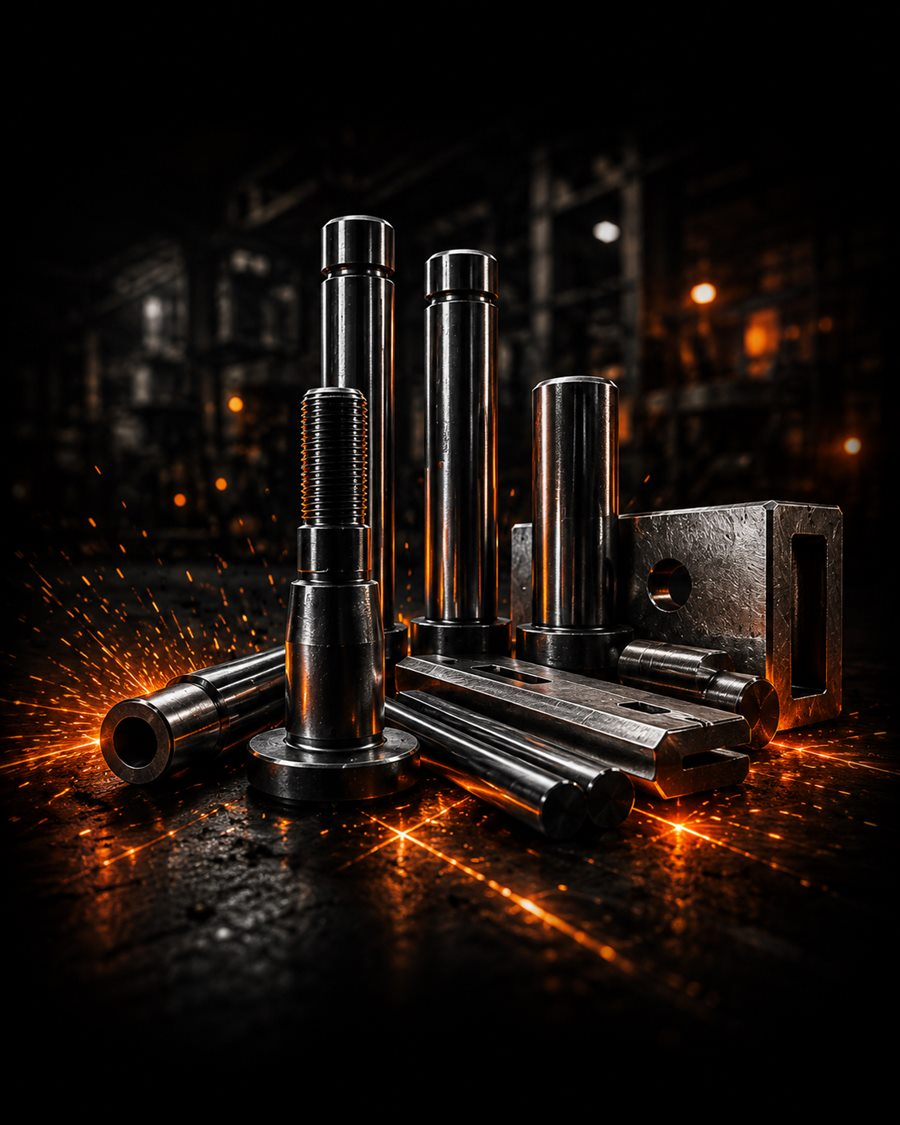
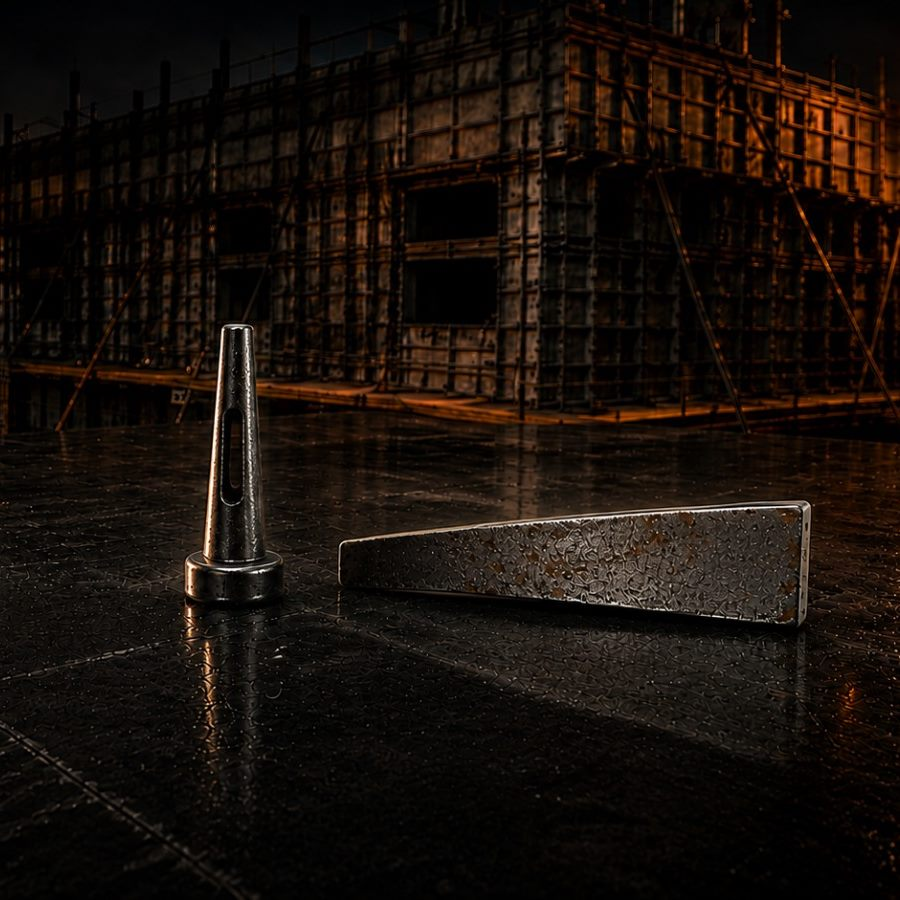
Hero novo e icone do WhatsApp de verdade
Icone: o jogo de icones do site e em traco e alguem tinha desenhado o
WhatsApp como bolha em traco com o fone chapado dentro. Ampliado, o fone
virava um borrao. Trocado pelo glifo oficial cheio nos 10 lugares que sao
link ou botao de WhatsApp (classe .ico-wa). O do passo 01 ficou bolha
genérica em traco, porque ali e ilustracao e nao link.

Hero: a foto nova tem as pecas no centro do quadro, nao na direita. Cortei
130px de piso vazio na direita e estiquei os 100px da esquerda, que sao
preto puro, pra 800px. O par cai no terco direito e a headline fica sobre
preto chapado.

De quebra, dois bugs que apareceram na conferencia:
- aspect-ratio com max-height na foto do hero devolvia o limite pra
  largura: a foto era um quadrado de 347px encostado na esquerda em
  qualquer largura de tela. Agora a altura e explicita e a largura sangra
- o menu do header espremia os seis itens a 1024px e os nomes das secoes
  encostavam um no outro. Menu mais apertado na faixa ate 1180
- o hero passa a empilhar a partir de 1000px: entre 861 e 1000 o pino caia
  por cima do subtitulo

Zero estouro horizontal de 482 a 1886.

diff --git a/index.html b/index.html
@@ -52,7 +52,7 @@
         <span>@ultraleveformas</span>
       </a>
       <a class="btn btn--ghost hdr__cta" href="https://wa.me/5511932408652?text=Ol%C3%A1!%20Vim%20pelo%20site%20e%20gostaria%20de%20um%20or%C3%A7amento." target="_blank" rel="noopener">
-        <svg viewBox="0 0 24 24" aria-hidden="true"><path d="M20.5 11.6a8.5 8.5 0 0 1-12.6 7.5L3.5 20.5l1.4-4.3A8.5 8.5 0 1 1 20.5 11.6Z"/><path d="M9 9.2c.3-.7.6-.7.9-.7h.6c.2 0 .5 0 .7.5l.8 1.9c.1.3 0 .5-.1.7l-.4.5c-.2.2-.3.4-.1.7a6 6 0 0 0 2.8 2.4c.3.1.5.1.7-.1l.6-.7c.2-.2.4-.2.6-.1l1.8.9c.3.1.4.3.4.5a2 2 0 0 1-1.4 1.8c-.5.1-1.2.2-3.5-.8a9.4 9.4 0 0 1-4.2-4.1c-.9-1.7-.6-2.7-.2-3.4Z" fill="currentColor" stroke="none"/></svg>
+        <svg class="ico-wa" viewBox="0 0 24 24" aria-hidden="true"><path d="M17.472 14.382c-.297-.149-1.758-.867-2.03-.967-.273-.099-.471-.148-.67.15-.197.297-.767.966-.94 1.164-.173.199-.347.223-.644.075-.297-.15-1.255-.463-2.39-1.475-.883-.788-1.48-1.761-1.653-2.059-.173-.297-.018-.458.13-.606.134-.133.347-.347.52-.52.174-.174.232-.298.347-.497.115-.199.058-.372-.024-.52-.082-.149-.67-1.612-.917-2.207-.244-.579-.487-.5-.669-.51-.173-.008-.371-.01-.57-.01-.198 0-.52.074-.792.372-.272.297-1.04 1.016-1.04 2.479 0 1.462 1.065 2.875 1.213 3.074.149.198 2.096 3.2 5.077 4.487.709.306 1.262.489 1.694.625.712.227 1.36.195 1.872.118.572-.085 1.758-.719 2.006-1.413.248-.694.248-1.289.173-1.413-.074-.124-.272-.198-.57-.347m-5.421 7.403h-.004a9.87 9.87 0 0 1-5.031-1.378l-.361-.214-3.741.982.998-3.648-.235-.374a9.86 9.86 0 0 1-1.51-5.26c.001-5.45 4.436-9.884 9.888-9.884 2.64 0 5.122 1.03 6.988 2.898a9.825 9.825 0 0 1 2.893 6.994c-.003 5.45-4.437 9.884-9.885 9.884m8.413-18.297A11.815 11.815 0 0 0 12.05 0C5.495 0 .16 5.335.157 11.892c0 2.096.547 4.142 1.588 5.945L.057 24l6.305-1.654a11.882 11.882 0 0 0 5.683 1.448h.005c6.554 0 11.89-5.335 11.893-11.893a11.821 11.821 0 0 0-3.48-8.413Z"/></svg>
         <span>(11) 93240-8652</span>
       </a>
       <button class="burger" id="burger" aria-label="Abrir menu" aria-expanded="false" aria-controls="nav">
@@ -94,7 +94,7 @@
 
     <div class="hero__cta stag" style="--d:210ms">
       <a class="btn btn--fire" href="https://wa.me/5511932408652?text=Ol%C3%A1!%20Vim%20pelo%20site%20e%20gostaria%20de%20falar%20com%20um%20representante." target="_blank" rel="noopener">
-        <svg viewBox="0 0 24 24" aria-hidden="true"><path d="M20.5 11.6a8.5 8.5 0 0 1-12.6 7.5L3.5 20.5l1.4-4.3A8.5 8.5 0 1 1 20.5 11.6Z"/><path d="M9 9.2c.3-.7.6-.7.9-.7h.6c.2 0 .5 0 .7.5l.8 1.9c.1.3 0 .5-.1.7l-.4.5c-.2.2-.3.4-.1.7a6 6 0 0 0 2.8 2.4c.3.1.5.1.7-.1l.6-.7c.2-.2.4-.2.6-.1l1.8.9c.3.1.4.3.4.5a2 2 0 0 1-1.4 1.8c-.5.1-1.2.2-3.5-.8a9.4 9.4 0 0 1-4.2-4.1c-.9-1.7-.6-2.7-.2-3.4Z" fill="currentColor" stroke="none"/></svg>
+        <svg class="ico-wa" viewBox="0 0 24 24" aria-hidden="true"><path d="M17.472 14.382c-.297-.149-1.758-.867-2.03-.967-.273-.099-.471-.148-.67.15-.197.297-.767.966-.94 1.164-.173.199-.347.223-.644.075-.297-.15-1.255-.463-2.39-1.475-.883-.788-1.48-1.761-1.653-2.059-.173-.297-.018-.458.13-.606.134-.133.347-.347.52-.52.174-.174.232-.298.347-.497.115-.199.058-.372-.024-.52-.082-.149-.67-1.612-.917-2.207-.244-.579-.487-.5-.669-.51-.173-.008-.371-.01-.57-.01-.198 0-.52.074-.792.372-.272.297-1.04 1.016-1.04 2.479 0 1.462 1.065 2.875 1.213 3.074.149.198 2.096 3.2 5.077 4.487.709.306 1.262.489 1.694.625.712.227 1.36.195 1.872.118.572-.085 1.758-.719 2.006-1.413.248-.694.248-1.289.173-1.413-.074-.124-.272-.198-.57-.347m-5.421 7.403h-.004a9.87 9.87 0 0 1-5.031-1.378l-.361-.214-3.741.982.998-3.648-.235-.374a9.86 9.86 0 0 1-1.51-5.26c.001-5.45 4.436-9.884 9.888-9.884 2.64 0 5.122 1.03 6.988 2.898a9.825 9.825 0 0 1 2.893 6.994c-.003 5.45-4.437 9.884-9.885 9.884m8.413-18.297A11.815 11.815 0 0 0 12.05 0C5.495 0 .16 5.335.157 11.892c0 2.096.547 4.142 1.588 5.945L.057 24l6.305-1.654a11.882 11.882 0 0 0 5.683 1.448h.005c6.554 0 11.89-5.335 11.893-11.893a11.821 11.821 0 0 0-3.48-8.413Z"/></svg>
         Fale conosco
       </a>
       <a class="btn btn--steel" href="#catalogo">
@@ -287,7 +287,7 @@
 
     <div class="pc__act reveal">
       <a class="btn btn--fire btn--lg" href="https://wa.me/5511932408652?text=Ol%C3%A1!%20Vim%20pelo%20site%20e%20gostaria%20de%20um%20or%C3%A7amento%20para%20*pinos%20e%20cunhas*." target="_blank" rel="noopener">
-        <svg viewBox="0 0 24 24" aria-hidden="true"><path d="M20.5 11.6a8.5 8.5 0 0 1-12.6 7.5L3.5 20.5l1.4-4.3A8.5 8.5 0 1 1 20.5 11.6Z"/><path d="M9 9.2c.3-.7.6-.7.9-.7h.6c.2 0 .5 0 .7.5l.8 1.9c.1.3 0 .5-.1.7l-.4.5c-.2.2-.3.4-.1.7a6 6 0 0 0 2.8 2.4c.3.1.5.1.7-.1l.6-.7c.2-.2.4-.2.6-.1l1.8.9c.3.1.4.3.4.5a2 2 0 0 1-1.4 1.8c-.5.1-1.2.2-3.5-.8a9.4 9.4 0 0 1-4.2-4.1c-.9-1.7-.6-2.7-.2-3.4Z" fill="currentColor" stroke="none"/></svg>
+        <svg class="ico-wa" viewBox="0 0 24 24" aria-hidden="true"><path d="M17.472 14.382c-.297-.149-1.758-.867-2.03-.967-.273-.099-.471-.148-.67.15-.197.297-.767.966-.94 1.164-.173.199-.347.223-.644.075-.297-.15-1.255-.463-2.39-1.475-.883-.788-1.48-1.761-1.653-2.059-.173-.297-.018-.458.13-.606.134-.133.347-.347.52-.52.174-.174.232-.298.347-.497.115-.199.058-.372-.024-.52-.082-.149-.67-1.612-.917-2.207-.244-.579-.487-.5-.669-.51-.173-.008-.371-.01-.57-.01-.198 0-.52.074-.792.372-.272.297-1.04 1.016-1.04 2.479 0 1.462 1.065 2.875 1.213 3.074.149.198 2.096 3.2 5.077 4.487.709.306 1.262.489 1.694.625.712.227 1.36.195 1.872.118.572-.085 1.758-.719 2.006-1.413.248-.694.248-1.289.173-1.413-.074-.124-.272-.198-.57-.347m-5.421 7.403h-.004a9.87 9.87 0 0 1-5.031-1.378l-.361-.214-3.741.982.998-3.648-.235-.374a9.86 9.86 0 0 1-1.51-5.26c.001-5.45 4.436-9.884 9.888-9.884 2.64 0 5.122 1.03 6.988 2.898a9.825 9.825 0 0 1 2.893 6.994c-.003 5.45-4.437 9.884-9.885 9.884m8.413-18.297A11.815 11.815 0 0 0 12.05 0C5.495 0 .16 5.335.157 11.892c0 2.096.547 4.142 1.588 5.945L.057 24l6.305-1.654a11.882 11.882 0 0 0 5.683 1.448h.005c6.554 0 11.89-5.335 11.893-11.893a11.821 11.821 0 0 0-3.48-8.413Z"/></svg>
         Quero orçamento de pinos e cunhas
       </a>
     </div>
@@ -379,7 +379,7 @@
         <p>Fabricação própria resolve medida especial fora de catálogo. Manda o desenho, a especificação ou uma foto da peça de referência.</p>
       </div>
       <a class="btn btn--fire" href="https://wa.me/5511932408652?text=Ol%C3%A1!%20Vim%20pelo%20site%20e%20preciso%20de%20uma%20pe%C3%A7a%20sob%20medida." target="_blank" rel="noopener">
-        <svg viewBox="0 0 24 24" aria-hidden="true"><path d="M20.5 11.6a8.5 8.5 0 0 1-12.6 7.5L3.5 20.5l1.4-4.3A8.5 8.5 0 1 1 20.5 11.6Z"/><path d="M9 9.2c.3-.7.6-.7.9-.7h.6c.2 0 .5 0 .7.5l.8 1.9c.1.3 0 .5-.1.7l-.4.5c-.2.2-.3.4-.1.7a6 6 0 0 0 2.8 2.4c.3.1.5.1.7-.1l.6-.7c.2-.2.4-.2.6-.1l1.8.9c.3.1.4.3.4.5a2 2 0 0 1-1.4 1.8c-.5.1-1.2.2-3.5-.8a9.4 9.4 0 0 1-4.2-4.1c-.9-1.7-.6-2.7-.2-3.4Z" fill="currentColor" stroke="none"/></svg>
+        <svg class="ico-wa" viewBox="0 0 24 24" aria-hidden="true"><path d="M17.472 14.382c-.297-.149-1.758-.867-2.03-.967-.273-.099-.471-.148-.67.15-.197.297-.767.966-.94 1.164-.173.199-.347.223-.644.075-.297-.15-1.255-.463-2.39-1.475-.883-.788-1.48-1.761-1.653-2.059-.173-.297-.018-.458.13-.606.134-.133.347-.347.52-.52.174-.174.232-.298.347-.497.115-.199.058-.372-.024-.52-.082-.149-.67-1.612-.917-2.207-.244-.579-.487-.5-.669-.51-.173-.008-.371-.01-.57-.01-.198 0-.52.074-.792.372-.272.297-1.04 1.016-1.04 2.479 0 1.462 1.065 2.875 1.213 3.074.149.198 2.096 3.2 5.077 4.487.709.306 1.262.489 1.694.625.712.227 1.36.195 1.872.118.572-.085 1.758-.719 2.006-1.413.248-.694.248-1.289.173-1.413-.074-.124-.272-.198-.57-.347m-5.421 7.403h-.004a9.87 9.87 0 0 1-5.031-1.378l-.361-.214-3.741.982.998-3.648-.235-.374a9.86 9.86 0 0 1-1.51-5.26c.001-5.45 4.436-9.884 9.888-9.884 2.64 0 5.122 1.03 6.988 2.898a9.825 9.825 0 0 1 2.893 6.994c-.003 5.45-4.437 9.884-9.885 9.884m8.413-18.297A11.815 11.815 0 0 0 12.05 0C5.495 0 .16 5.335.157 11.892c0 2.096.547 4.142 1.588 5.945L.057 24l6.305-1.654a11.882 11.882 0 0 0 5.683 1.448h.005c6.554 0 11.89-5.335 11.893-11.893a11.821 11.821 0 0 0-3.48-8.413Z"/></svg>
         Falar com a fábrica
       </a>
     </div>
@@ -441,7 +441,7 @@
           <span class="spec">(11) 93240-8652</span>
         </span>
         <span class="rep__go">
-          <svg viewBox="0 0 24 24" aria-hidden="true"><path d="M20.5 11.6a8.5 8.5 0 0 1-12.6 7.5L3.5 20.5l1.4-4.3A8.5 8.5 0 1 1 20.5 11.6Z"/><path d="M9 9.2c.3-.7.6-.7.9-.7h.6c.2 0 .5 0 .7.5l.8 1.9c.1.3 0 .5-.1.7l-.4.5c-.2.2-.3.4-.1.7a6 6 0 0 0 2.8 2.4c.3.1.5.1.7-.1l.6-.7c.2-.2.4-.2.6-.1l1.8.9c.3.1.4.3.4.5a2 2 0 0 1-1.4 1.8c-.5.1-1.2.2-3.5-.8a9.4 9.4 0 0 1-4.2-4.1c-.9-1.7-.6-2.7-.2-3.4Z" fill="currentColor" stroke="none"/></svg>
+          <svg class="ico-wa" viewBox="0 0 24 24" aria-hidden="true"><path d="M17.472 14.382c-.297-.149-1.758-.867-2.03-.967-.273-.099-.471-.148-.67.15-.197.297-.767.966-.94 1.164-.173.199-.347.223-.644.075-.297-.15-1.255-.463-2.39-1.475-.883-.788-1.48-1.761-1.653-2.059-.173-.297-.018-.458.13-.606.134-.133.347-.347.52-.52.174-.174.232-.298.347-.497.115-.199.058-.372-.024-.52-.082-.149-.67-1.612-.917-2.207-.244-.579-.487-.5-.669-.51-.173-.008-.371-.01-.57-.01-.198 0-.52.074-.792.372-.272.297-1.04 1.016-1.04 2.479 0 1.462 1.065 2.875 1.213 3.074.149.198 2.096 3.2 5.077 4.487.709.306 1.262.489 1.694.625.712.227 1.36.195 1.872.118.572-.085 1.758-.719 2.006-1.413.248-.694.248-1.289.173-1.413-.074-.124-.272-.198-.57-.347m-5.421 7.403h-.004a9.87 9.87 0 0 1-5.031-1.378l-.361-.214-3.741.982.998-3.648-.235-.374a9.86 9.86 0 0 1-1.51-5.26c.001-5.45 4.436-9.884 9.888-9.884 2.64 0 5.122 1.03 6.988 2.898a9.825 9.825 0 0 1 2.893 6.994c-.003 5.45-4.437 9.884-9.885 9.884m8.413-18.297A11.815 11.815 0 0 0 12.05 0C5.495 0 .16 5.335.157 11.892c0 2.096.547 4.142 1.588 5.945L.057 24l6.305-1.654a11.882 11.882 0 0 0 5.683 1.448h.005c6.554 0 11.89-5.335 11.893-11.893a11.821 11.821 0 0 0-3.48-8.413Z"/></svg>
           Chamar
         </span>
       </a>
@@ -453,7 +453,7 @@
           <span class="spec">(66) 99670-6519</span>
         </span>
         <span class="rep__go">
-          <svg viewBox="0 0 24 24" aria-hidden="true"><path d="M20.5 11.6a8.5 8.5 0 0 1-12.6 7.5L3.5 20.5l1.4-4.3A8.5 8.5 0 1 1 20.5 11.6Z"/><path d="M9 9.2c.3-.7.6-.7.9-.7h.6c.2 0 .5 0 .7.5l.8 1.9c.1.3 0 .5-.1.7l-.4.5c-.2.2-.3.4-.1.7a6 6 0 0 0 2.8 2.4c.3.1.5.1.7-.1l.6-.7c.2-.2.4-.2.6-.1l1.8.9c.3.1.4.3.4.5a2 2 0 0 1-1.4 1.8c-.5.1-1.2.2-3.5-.8a9.4 9.4 0 0 1-4.2-4.1c-.9-1.7-.6-2.7-.2-3.4Z" fill="currentColor" stroke="none"/></svg>
+          <svg class="ico-wa" viewBox="0 0 24 24" aria-hidden="true"><path d="M17.472 14.382c-.297-.149-1.758-.867-2.03-.967-.273-.099-.471-.148-.67.15-.197.297-.767.966-.94 1.164-.173.199-.347.223-.644.075-.297-.15-1.255-.463-2.39-1.475-.883-.788-1.48-1.761-1.653-2.059-.173-.297-.018-.458.13-.606.134-.133.347-.347.52-.52.174-.174.232-.298.347-.497.115-.199.058-.372-.024-.52-.082-.149-.67-1.612-.917-2.207-.244-.579-.487-.5-.669-.51-.173-.008-.371-.01-.57-.01-.198 0-.52.074-.792.372-.272.297-1.04 1.016-1.04 2.479 0 1.462 1.065 2.875 1.213 3.074.149.198 2.096 3.2 5.077 4.487.709.306 1.262.489 1.694.625.712.227 1.36.195 1.872.118.572-.085 1.758-.719 2.006-1.413.248-.694.248-1.289.173-1.413-.074-.124-.272-.198-.57-.347m-5.421 7.403h-.004a9.87 9.87 0 0 1-5.031-1.378l-.361-.214-3.741.982.998-3.648-.235-.374a9.86 9.86 0 0 1-1.51-5.26c.001-5.45 4.436-9.884 9.888-9.884 2.64 0 5.122 1.03 6.988 2.898a9.825 9.825 0 0 1 2.893 6.994c-.003 5.45-4.437 9.884-9.885 9.884m8.413-18.297A11.815 11.815 0 0 0 12.05 0C5.495 0 .16 5.335.157 11.892c0 2.096.547 4.142 1.588 5.945L.057 24l6.305-1.654a11.882 11.882 0 0 0 5.683 1.448h.005c6.554 0 11.89-5.335 11.893-11.893a11.821 11.821 0 0 0-3.48-8.413Z"/></svg>
           Chamar
         </span>
       </a>
@@ -465,7 +465,7 @@
           <span class="spec">(55) 98106-5167</span>
         </span>
         <span class="rep__go">
-          <svg viewBox="0 0 24 24" aria-hidden="true"><path d="M20.5 11.6a8.5 8.5 0 0 1-12.6 7.5L3.5 20.5l1.4-4.3A8.5 8.5 0 1 1 20.5 11.6Z"/><path d="M9 9.2c.3-.7.6-.7.9-.7h.6c.2 0 .5 0 .7.5l.8 1.9c.1.3 0 .5-.1.7l-.4.5c-.2.2-.3.4-.1.7a6 6 0 0 0 2.8 2.4c.3.1.5.1.7-.1l.6-.7c.2-.2.4-.2.6-.1l1.8.9c.3.1.4.3.4.5a2 2 0 0 1-1.4 1.8c-.5.1-1.2.2-3.5-.8a9.4 9.4 0 0 1-4.2-4.1c-.9-1.7-.6-2.7-.2-3.4Z" fill="currentColor" stroke="none"/></svg>
+          <svg class="ico-wa" viewBox="0 0 24 24" aria-hidden="true"><path d="M17.472 14.382c-.297-.149-1.758-.867-2.03-.967-.273-.099-.471-.148-.67.15-.197.297-.767.966-.94 1.164-.173.199-.347.223-.644.075-.297-.15-1.255-.463-2.39-1.475-.883-.788-1.48-1.761-1.653-2.059-.173-.297-.018-.458.13-.606.134-.133.347-.347.52-.52.174-.174.232-.298.347-.497.115-.199.058-.372-.024-.52-.082-.149-.67-1.612-.917-2.207-.244-.579-.487-.5-.669-.51-.173-.008-.371-.01-.57-.01-.198 0-.52.074-.792.372-.272.297-1.04 1.016-1.04 2.479 0 1.462 1.065 2.875 1.213 3.074.149.198 2.096 3.2 5.077 4.487.709.306 1.262.489 1.694.625.712.227 1.36.195 1.872.118.572-.085 1.758-.719 2.006-1.413.248-.694.248-1.289.173-1.413-.074-.124-.272-.198-.57-.347m-5.421 7.403h-.004a9.87 9.87 0 0 1-5.031-1.378l-.361-.214-3.741.982.998-3.648-.235-.374a9.86 9.86 0 0 1-1.51-5.26c.001-5.45 4.436-9.884 9.888-9.884 2.64 0 5.122 1.03 6.988 2.898a9.825 9.825 0 0 1 2.893 6.994c-.003 5.45-4.437 9.884-9.885 9.884m8.413-18.297A11.815 11.815 0 0 0 12.05 0C5.495 0 .16 5.335.157 11.892c0 2.096.547 4.142 1.588 5.945L.057 24l6.305-1.654a11.882 11.882 0 0 0 5.683 1.448h.005c6.554 0 11.89-5.335 11.893-11.893a11.821 11.821 0 0 0-3.48-8.413Z"/></svg>
           Chamar
         </span>
       </a>
@@ -648,7 +648,7 @@
     </div>
     <div class="final__b reveal">
       <a class="btn btn--fire btn--lg" href="https://wa.me/5511932408652?text=Ol%C3%A1!%20Vim%20pelo%20site%20e%20gostaria%20de%20um%20or%C3%A7amento." target="_blank" rel="noopener">
-        <svg viewBox="0 0 24 24" aria-hidden="true"><path d="M20.5 11.6a8.5 8.5 0 0 1-12.6 7.5L3.5 20.5l1.4-4.3A8.5 8.5 0 1 1 20.5 11.6Z"/><path d="M9 9.2c.3-.7.6-.7.9-.7h.6c.2 0 .5 0 .7.5l.8 1.9c.1.3 0 .5-.1.7l-.4.5c-.2.2-.3.4-.1.7a6 6 0 0 0 2.8 2.4c.3.1.5.1.7-.1l.6-.7c.2-.2.4-.2.6-.1l1.8.9c.3.1.4.3.4.5a2 2 0 0 1-1.4 1.8c-.5.1-1.2.2-3.5-.8a9.4 9.4 0 0 1-4.2-4.1c-.9-1.7-.6-2.7-.2-3.4Z" fill="currentColor" stroke="none"/></svg>
+        <svg class="ico-wa" viewBox="0 0 24 24" aria-hidden="true"><path d="M17.472 14.382c-.297-.149-1.758-.867-2.03-.967-.273-.099-.471-.148-.67.15-.197.297-.767.966-.94 1.164-.173.199-.347.223-.644.075-.297-.15-1.255-.463-2.39-1.475-.883-.788-1.48-1.761-1.653-2.059-.173-.297-.018-.458.13-.606.134-.133.347-.347.52-.52.174-.174.232-.298.347-.497.115-.199.058-.372-.024-.52-.082-.149-.67-1.612-.917-2.207-.244-.579-.487-.5-.669-.51-.173-.008-.371-.01-.57-.01-.198 0-.52.074-.792.372-.272.297-1.04 1.016-1.04 2.479 0 1.462 1.065 2.875 1.213 3.074.149.198 2.096 3.2 5.077 4.487.709.306 1.262.489 1.694.625.712.227 1.36.195 1.872.118.572-.085 1.758-.719 2.006-1.413.248-.694.248-1.289.173-1.413-.074-.124-.272-.198-.57-.347m-5.421 7.403h-.004a9.87 9.87 0 0 1-5.031-1.378l-.361-.214-3.741.982.998-3.648-.235-.374a9.86 9.86 0 0 1-1.51-5.26c.001-5.45 4.436-9.884 9.888-9.884 2.64 0 5.122 1.03 6.988 2.898a9.825 9.825 0 0 1 2.893 6.994c-.003 5.45-4.437 9.884-9.885 9.884m8.413-18.297A11.815 11.815 0 0 0 12.05 0C5.495 0 .16 5.335.157 11.892c0 2.096.547 4.142 1.588 5.945L.057 24l6.305-1.654a11.882 11.882 0 0 0 5.683 1.448h.005c6.554 0 11.89-5.335 11.893-11.893a11.821 11.821 0 0 0-3.48-8.413Z"/></svg>
         Falar agora pelo WhatsApp
       </a>
       <a class="btn btn--steel btn--lg" href="tel:+5511932408652">(11) 93240-8652</a>
@@ -669,7 +669,7 @@
           <svg viewBox="0 0 24 24" aria-hidden="true"><rect x="3" y="3" width="18" height="18" rx="5"/><circle cx="12" cy="12" r="4"/><circle cx="17.2" cy="6.8" r="1.1" fill="currentColor" stroke="none"/></svg>
         </a>
         <a href="https://wa.me/5511932408652" target="_blank" rel="noopener" aria-label="WhatsApp">
-          <svg viewBox="0 0 24 24" aria-hidden="true"><path d="M20.5 11.6a8.5 8.5 0 0 1-12.6 7.5L3.5 20.5l1.4-4.3A8.5 8.5 0 1 1 20.5 11.6Z"/></svg>
+          <svg class="ico-wa" viewBox="0 0 24 24" aria-hidden="true"><path d="M17.472 14.382c-.297-.149-1.758-.867-2.03-.967-.273-.099-.471-.148-.67.15-.197.297-.767.966-.94 1.164-.173.199-.347.223-.644.075-.297-.15-1.255-.463-2.39-1.475-.883-.788-1.48-1.761-1.653-2.059-.173-.297-.018-.458.13-.606.134-.133.347-.347.52-.52.174-.174.232-.298.347-.497.115-.199.058-.372-.024-.52-.082-.149-.67-1.612-.917-2.207-.244-.579-.487-.5-.669-.51-.173-.008-.371-.01-.57-.01-.198 0-.52.074-.792.372-.272.297-1.04 1.016-1.04 2.479 0 1.462 1.065 2.875 1.213 3.074.149.198 2.096 3.2 5.077 4.487.709.306 1.262.489 1.694.625.712.227 1.36.195 1.872.118.572-.085 1.758-.719 2.006-1.413.248-.694.248-1.289.173-1.413-.074-.124-.272-.198-.57-.347m-5.421 7.403h-.004a9.87 9.87 0 0 1-5.031-1.378l-.361-.214-3.741.982.998-3.648-.235-.374a9.86 9.86 0 0 1-1.51-5.26c.001-5.45 4.436-9.884 9.888-9.884 2.64 0 5.122 1.03 6.988 2.898a9.825 9.825 0 0 1 2.893 6.994c-.003 5.45-4.437 9.884-9.885 9.884m8.413-18.297A11.815 11.815 0 0 0 12.05 0C5.495 0 .16 5.335.157 11.892c0 2.096.547 4.142 1.588 5.945L.057 24l6.305-1.654a11.882 11.882 0 0 0 5.683 1.448h.005c6.554 0 11.89-5.335 11.893-11.893a11.821 11.821 0 0 0-3.48-8.413Z"/></svg>
         </a>
       </div>
     </div>
@@ -717,7 +717,7 @@
 
 <!-- barra fixa mobile -->
 <a class="wsp" href="https://wa.me/5511932408652?text=Ol%C3%A1!%20Vim%20pelo%20site%20e%20gostaria%20de%20um%20or%C3%A7amento." target="_blank" rel="noopener">
-  <svg viewBox="0 0 24 24" aria-hidden="true"><path d="M20.5 11.6a8.5 8.5 0 0 1-12.6 7.5L3.5 20.5l1.4-4.3A8.5 8.5 0 1 1 20.5 11.6Z"/><path d="M9 9.2c.3-.7.6-.7.9-.7h.6c.2 0 .5 0 .7.5l.8 1.9c.1.3 0 .5-.1.7l-.4.5c-.2.2-.3.4-.1.7a6 6 0 0 0 2.8 2.4c.3.1.5.1.7-.1l.6-.7c.2-.2.4-.2.6-.1l1.8.9c.3.1.4.3.4.5a2 2 0 0 1-1.4 1.8c-.5.1-1.2.2-3.5-.8a9.4 9.4 0 0 1-4.2-4.1c-.9-1.7-.6-2.7-.2-3.4Z" fill="currentColor" stroke="none"/></svg>
+  <svg class="ico-wa" viewBox="0 0 24 24" aria-hidden="true"><path d="M17.472 14.382c-.297-.149-1.758-.867-2.03-.967-.273-.099-.471-.148-.67.15-.197.297-.767.966-.94 1.164-.173.199-.347.223-.644.075-.297-.15-1.255-.463-2.39-1.475-.883-.788-1.48-1.761-1.653-2.059-.173-.297-.018-.458.13-.606.134-.133.347-.347.52-.52.174-.174.232-.298.347-.497.115-.199.058-.372-.024-.52-.082-.149-.67-1.612-.917-2.207-.244-.579-.487-.5-.669-.51-.173-.008-.371-.01-.57-.01-.198 0-.52.074-.792.372-.272.297-1.04 1.016-1.04 2.479 0 1.462 1.065 2.875 1.213 3.074.149.198 2.096 3.2 5.077 4.487.709.306 1.262.489 1.694.625.712.227 1.36.195 1.872.118.572-.085 1.758-.719 2.006-1.413.248-.694.248-1.289.173-1.413-.074-.124-.272-.198-.57-.347m-5.421 7.403h-.004a9.87 9.87 0 0 1-5.031-1.378l-.361-.214-3.741.982.998-3.648-.235-.374a9.86 9.86 0 0 1-1.51-5.26c.001-5.45 4.436-9.884 9.888-9.884 2.64 0 5.122 1.03 6.988 2.898a9.825 9.825 0 0 1 2.893 6.994c-.003 5.45-4.437 9.884-9.885 9.884m8.413-18.297A11.815 11.815 0 0 0 12.05 0C5.495 0 .16 5.335.157 11.892c0 2.096.547 4.142 1.588 5.945L.057 24l6.305-1.654a11.882 11.882 0 0 0 5.683 1.448h.005c6.554 0 11.89-5.335 11.893-11.893a11.821 11.821 0 0 0-3.48-8.413Z"/></svg>
   Pedir orçamento no WhatsApp
 </a>
 

diff --git a/assets/css/style.css b/assets/css/style.css
@@ -71,6 +71,9 @@ h1,h2,h3,p,dl,dd,figure,blockquote{margin:0}
 button{font:inherit;color:inherit;background:none;border:0;cursor:pointer}
 svg{width:1em;height:1em;fill:none;stroke:currentColor;stroke-width:1.6;
     stroke-linecap:round;stroke-linejoin:round}
+/* marca do WhatsApp: glifo cheio, o unico do jogo que nao e em traco.
+   Desenhar a bolha em traco com o fone chapado dava um borrao no lugar do fone. */
+.ico-wa{fill:currentColor;stroke:none;transform:scale(.94)}
 
 /* superfícies do navegador, não deixar no default */
 ::selection{background:var(--fire-600);color:#fff}
@@ -262,10 +265,10 @@ html{scrollbar-color:var(--line-hi) var(--ink-950);scrollbar-width:thin}
 }
 /* fundo do hero: só existe no desktop, então o arquivo grande nem é baixado no celular */
 .hero__bg{display:none}
-@media (min-width:861px){
+@media (min-width:1001px){
   .hero__bg{
     display:block;position:absolute;inset:0;z-index:-2;
-    background:url("../img/hero-desktop-sm.jpg") 38% 58%/cover no-repeat;
+    background:url("../img/hero-desktop-sm.jpg") 100% 62%/cover no-repeat;
     animation:heroIn 1.6s var(--q) both;
   }
 }
@@ -831,8 +834,8 @@ html{scrollbar-color:var(--line-hi) var(--ink-950);scrollbar-width:thin}
   .fam{grid-template-columns:repeat(4,1fr)}
   .fam__c--ajuda{grid-column:span 3;flex-direction:row;align-items:center;gap:1.25rem}
   .fam__c--ajuda div{flex:1}
-  .hdr__nav{gap:1.15rem}
-  .hdr__nav a{font-size:.74rem;letter-spacing:.1em}
+  .hdr__nav{gap:.8rem}
+  .hdr__nav a{font-size:.71rem;letter-spacing:.075em}
   .hdr__ig span{display:none}
   .trust__grid{grid-template-columns:repeat(3,1fr)}
   .trust__i:nth-child(4),.trust__i:nth-child(5){grid-column:span 1}
@@ -867,6 +870,30 @@ html{scrollbar-color:var(--line-hi) var(--ink-950);scrollbar-width:thin}
   .final__in{gap:2rem}
 }
 
+@media (max-width:1000px){
+  /* ordem do hero no estreito: título, imagem, subtítulo, botões.
+     Vem da ordem do DOM, sem order nenhum. */
+  .hero{
+    min-height:0;padding:calc(var(--hdr) + 3.25rem) 0 3rem;
+    background:var(--ink-950);display:block;
+  }
+  .hero::before{display:none}
+  .hero__in{max-width:none}
+  .hero__in > *{max-width:none}
+  .hero__h1{max-width:none}
+  .hero__over{margin-bottom:.85rem;letter-spacing:.12em;font-size:.68rem;line-height:1.5}
+  .hero__ph{
+    display:block;height:clamp(240px,40vw,430px);
+    margin:1.35rem calc(var(--pad)*-1) .2rem;
+    background:url("../img/hero-desktop-sm.jpg") 82% 62%/cover no-repeat;
+    -webkit-mask-image:linear-gradient(180deg,transparent 0,#000 13%,#000 84%,transparent 100%);
+            mask-image:linear-gradient(180deg,transparent 0,#000 13%,#000 84%,transparent 100%);
+  }
+  .hero__note{font-size:.68rem;letter-spacing:.08em}
+  .hero__sub{max-width:none}
+  .hero__cta .btn{width:100%}
+}
+
 @media (max-width:860px){
   html{scroll-padding-top:calc(var(--hdr) + 8px)}
   /* o ritmo do desktop não cabe num tablet */
@@ -876,30 +903,10 @@ html{scrollbar-color:var(--line-hi) var(--ink-950);scrollbar-width:thin}
   /* duas colunas só valem enquanto sobra largura */
   .grp__l{grid-template-columns:1fr;column-gap:0}
   .faq__l{grid-template-columns:1fr;column-gap:0}
-  /* ordem do hero no celular: título, imagem, subtítulo, botões.
-     Vem da ordem do DOM, sem order nenhum. */
-  .hero{
-    min-height:0;padding:calc(var(--hdr) + 3.25rem) 0 3rem;
-    background:var(--ink-950);display:block;
-  }
-  .hero::before{display:none}
-  .hero__in{max-width:none}
-  .hero__over{margin-bottom:.85rem;letter-spacing:.12em;font-size:.68rem;line-height:1.5}
-  .hero__ph{
-    display:block;aspect-ratio:1/1;max-height:44vh;
-    margin:1.35rem calc(var(--pad)*-1) .2rem;
-    background:url("../img/hero-mobile.jpg") center 56%/cover no-repeat;
-    -webkit-mask-image:linear-gradient(180deg,transparent 0,#000 13%,#000 84%,transparent 100%);
-            mask-image:linear-gradient(180deg,transparent 0,#000 13%,#000 84%,transparent 100%);
-  }
   :root{--hdr:72px}
   /* só altura, nunca largura: a base já define height e travar as duas distorce */
   .hdr__logo img{height:44px}
   .hdr__in{gap:.65rem}
-  .hero__note{font-size:.68rem;letter-spacing:.08em}
-  .hero__sub{max-width:none}
-  .hero__cta .btn{width:100%}
-
   .fam{grid-template-columns:repeat(3,1fr)}
   .fam__img img{aspect-ratio:5/4}
   .fam__b{padding:.75rem .8rem 0}
@@ -998,6 +1005,9 @@ html{scrollbar-color:var(--line-hi) var(--ink-950);scrollbar-width:thin}
   .dep__g::-webkit-scrollbar{display:none}
   .dep{scroll-snap-align:center;padding:1.3rem 1.2rem;gap:.8rem}
   .dep blockquote p{font-size:.92rem}
+  /* faixa larga não funciona num celular: aqui entra o corte quadrado */
+  .hero__ph{height:min(94vw,46vh);background-image:url("../img/hero-mobile.jpg");
+    background-position:center 52%}
   .pc__img img{aspect-ratio:16/10}
   .q summary{padding:1rem .2rem;font-size:.94rem}
   .q__b p{padding-right:1.5rem;font-size:.9rem}
